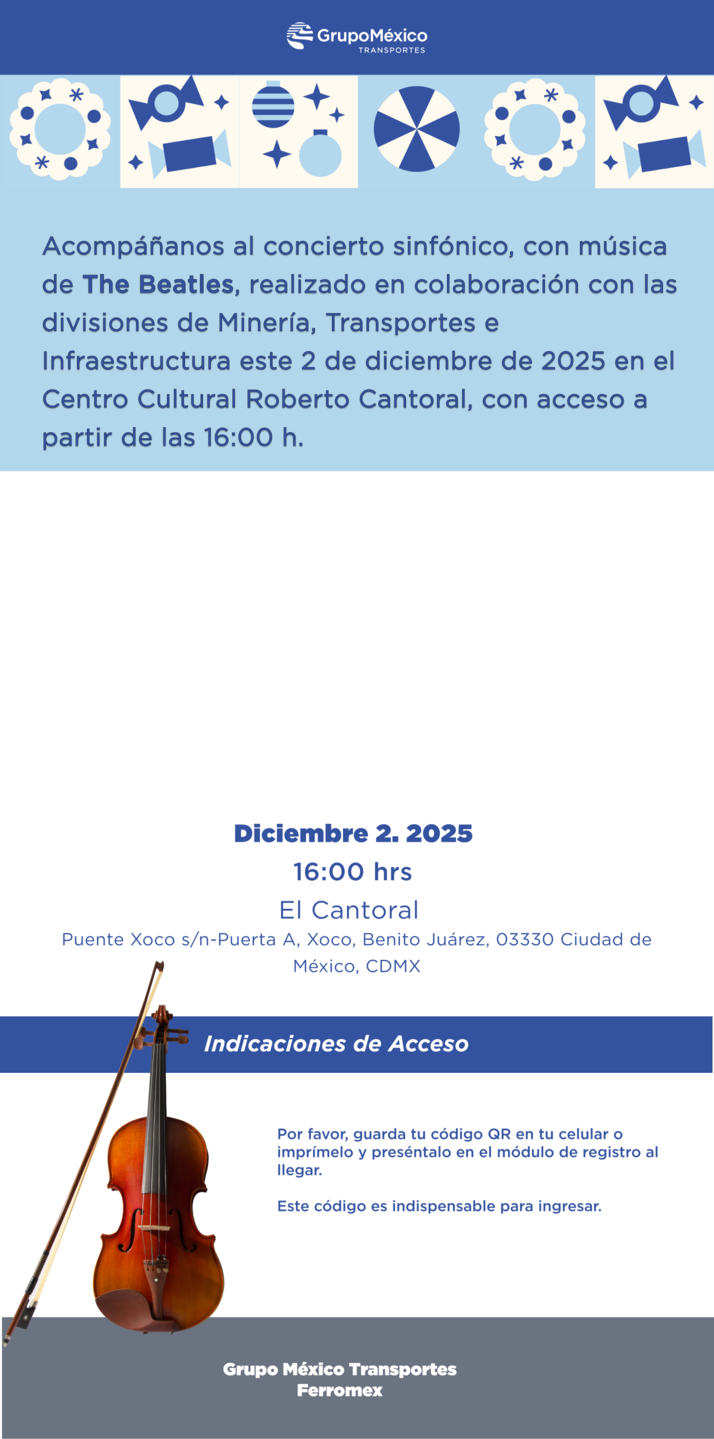
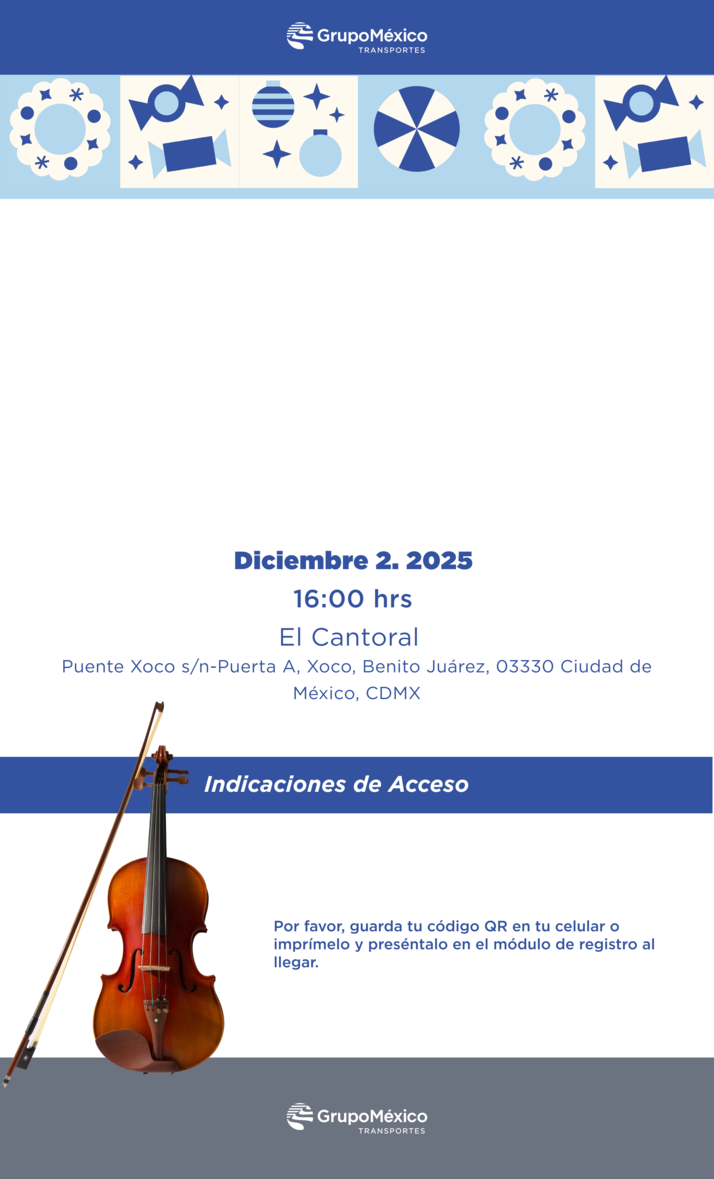
CCambio en la invitacion

diff --git a/app/Services/InvitationImageService.php b/app/Services/InvitationImageService.php
@@ -40,14 +40,14 @@ class InvitationImageService
         $baseHeight = $invitationImage->height();
         
         // Cargar el QR y redimensionarlo
-        // La imagen ahora mide 714 × 1439, el QR lo ajustamos proporcionalmente
-        $qrSize = 325; // Tamaño del QR en píxeles (mitad del anterior: 650/2)
+        // La imagen ahora mide 714 × 1179, el QR lo ajustamos proporcionalmente
+        $qrSize = 325; // Tamaño del QR en píxeles
         $qrImage = Image::make($qrPath)->resize($qrSize, $qrSize);
         
         // Calcular posición para centrar el QR horizontalmente
-        // Y posicionarlo verticalmente donde está el espacio en blanco
+        // Y posicionarlo verticalmente según el nuevo layout
         $qrX = ($baseWidth - $qrSize) / 2; // Centrado horizontal
-        $qrY = 475; // Posición vertical (mitad del anterior: 950/2)
+        $qrY = 380; // Posición vertical ajustada para imagen 714×1179
         
         // Insertar el QR en la imagen base
         $invitationImage->insert($qrImage, 'top-left', (int)$qrX, (int)$qrY);
@@ -92,7 +92,7 @@ class InvitationImageService
         $qrImage = Image::make($qrPath)->resize($qrSize, $qrSize);
         
         $qrX = ($baseWidth - $qrSize) / 2;
-        $qrY = 475;
+        $qrY = 380;
         
         $invitationImage->insert($qrImage, 'top-left', (int)$qrX, (int)$qrY);
         
